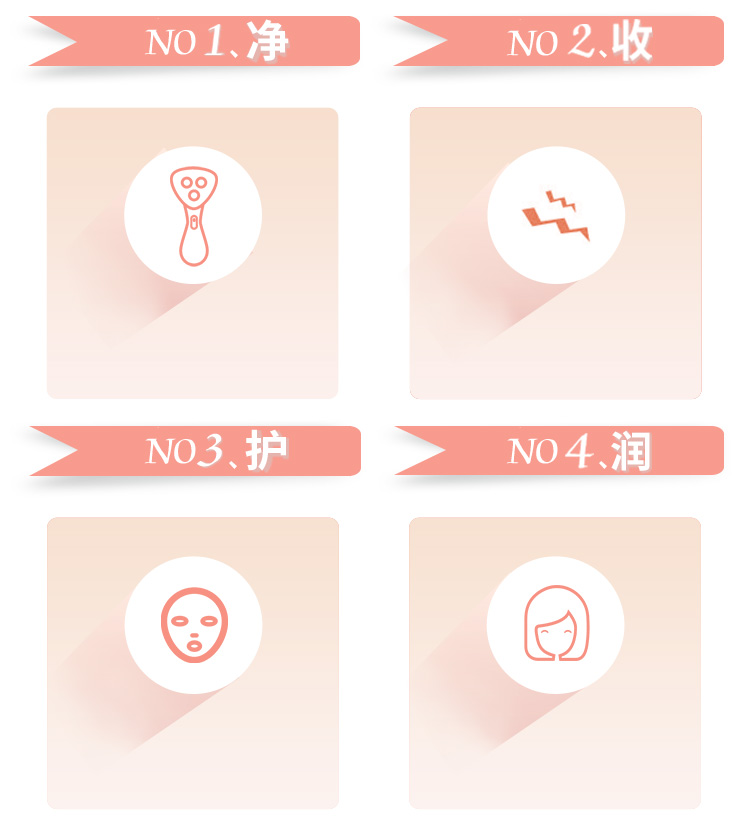
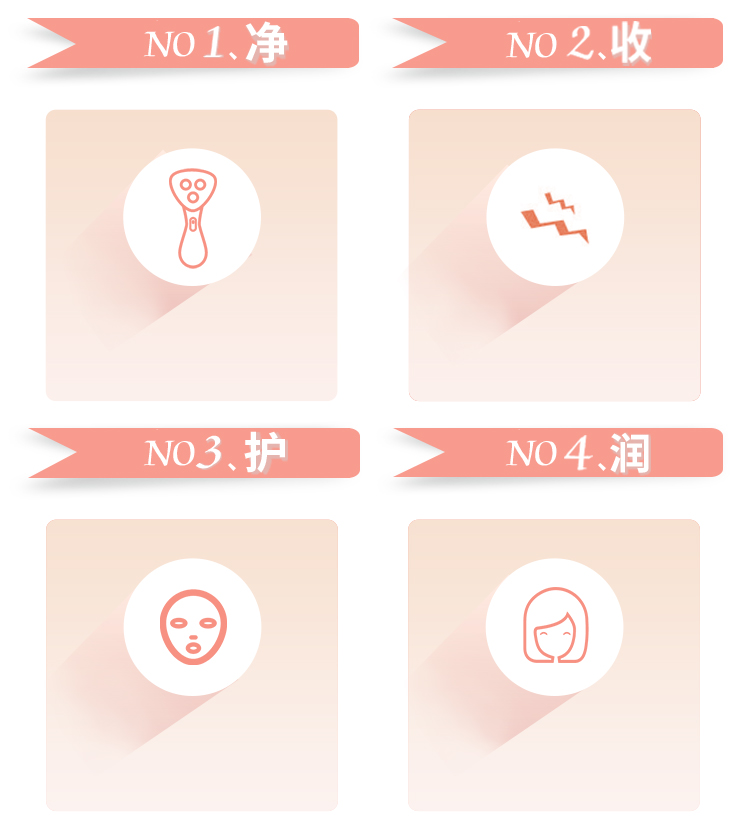
更换图片清晰图，样式微调

diff --git a/m.hoozonspa.com/statics/zt/mksx/css/theme_sj.css b/m.hoozonspa.com/statics/zt/mksx/css/theme_sj.css
@@ -1,19 +1,4 @@
-/** 
-* demo V1.0.0 
-* By 小珍
-* http://www.baidu.com/
- */
-@charset "utf-8";
 
-/** 
-* demo V1.0.0 
-* By 小珍
-* http://www.baidu.com/
- */
-
-/* @imgp: '/statics/zt/mksx/images/'; */
-
-/* @imgp: '/statics/zt/mksx/images/'; */
 
 /* ***reset*** */
 a, body { color: #000; }
@@ -33,7 +18,7 @@ body { background: #fff; font-family: "微软雅黑", sans-serif, Verdana, Arial
 .f-cb:after { display: block; visibility: hidden; height: 0; overflow: hidden; clear: both; content: "."; }
 .f-cb { zoom: 1; }
 .sr-only { position: absolute; width: 1px; height: 1px; padding: 0; margin: -1px; overflow: hidden; clip: rect(0, 0, 0, 0); border: 0; }
-@font-face { font-family: 'specialfont'; src: url('汉仪晓波折纸体简.ttf') format('truetype'); }
+@font-face { font-family: 'specialfont'; src: url('/statics/font/汉仪晓波折纸体简.ttf') format('truetype'); }
 .consult:hover { transform: scale(0.9, 0.9); }
 .j-consult { cursor: pointer; }
 .g-container { min-width: 15.99829352rem; }
@@ -51,7 +36,7 @@ body { background: #fff; font-family: "微软雅黑", sans-serif, Verdana, Arial
 .m1 .g-doc .g-title h2 .o { position: relative; padding: 0 0.51194539rem; }
 .m1 .g-doc .g-content { height: 16.2116041rem; }
 .m1 .g-doc .g-content h3 { font-size: 0.76791809rem; font-weight: normal; font-stretch: normal; line-height: 1.17320819rem; letter-spacing: 0rem; color: #f79181; margin-left: 0.38395904rem; }
-.m1 .g-doc .g-content p { margin: 0.21331058rem auto 0; width: 15.14505119rem; font-size: 0.59726962rem; font-weight: normal; letter-spacing: 0rem; color: #805443; text-align: justify; letter-spacing: -0.04266212rem; }
+.m1 .g-doc .g-content p { margin: 0.21331058rem auto 0; width: 15.14505119rem; font-size: 0.59726962rem; font-weight: normal; letter-spacing: 0rem; color: #805443; text-align: justify; letter-spacing: 0; }
 .m1 .g-doc .g-content img { margin: 0.63993174rem 0 2.1331058rem; display: block; width: 100%; }
 .m1 .m1_2 { background: url('/statics/zt/mksx/images/bg1.jpg') center top no-repeat; height: 19.45392491rem; background-size: auto 100%; }
 .m1 .m1_2 .g-doc { position: relative; }
@@ -62,7 +47,7 @@ body { background: #fff; font-family: "微软雅黑", sans-serif, Verdana, Arial
 .m2 .g-doc .g-title { background: url('/statics/zt/mksx/images/bgt2.jpg') left center no-repeat; height: 1.27986348rem; background-size: auto 100%; }
 .m2 .g-doc .g-content { margin-top: 0.85324232rem; background: url('/statics/zt/mksx/images/bg2.jpg') center top no-repeat; height: 17.53412969rem; background-size: auto 100%; }
 .m2 .g-doc .g-content .item { padding-top: 6.39931741rem; width: 6.18600683rem; height: 1.91979522rem;  /*display: inline-block; */ float: left; margin-bottom: 0.42662116rem; }
-.m2 .g-doc .g-content .item p { font-size: 0.55460751rem; font-weight: normal; font-stretch: normal; line-height: 0.8105802rem; letter-spacing: 0rem; color: #805443; text-align: center; }
+.m2 .g-doc .g-content .item p { text-shadow: 0.08532423rem 0.08532423rem 0.10665529rem rgba(75, 19, 3, 0.17); font-size: 0.55460751rem; font-weight: normal; font-stretch: normal; line-height: 0.8105802rem; letter-spacing: -0.02133106rem; color: #805443; text-align: center; }
 .m2 .g-doc .g-content .item1 { margin-left: 1.0665529rem; }
 .m2 .g-doc .g-content .item2 { margin-left: 1.49317406rem; }
 .m2 .g-doc .g-content .item3 { margin-left: 1.0665529rem; }

diff --git a/www.hoozonspa.com/static/zt/css/mksx/theme.css b/www.hoozonspa.com/static/zt/css/mksx/theme.css
@@ -1,6 +1,3 @@
-
-@charset "utf-8";
-
 /*@imgp: '/static/zt/img/mksx/';*/
 
 /* ***reset*** */
@@ -41,7 +38,7 @@ body { background: #fff; font-family: "微软雅黑", sans-serif, Verdana, Arial
 .m1 .g-doc .g-title h2 .o { position: relative; padding: 0 34px; }
 .m1 .g-doc .g-content { margin-left: 30px; padding-bottom: 40px; }
 .m1 .g-doc .g-content h3 { font-size: 36px; font-weight: normal; font-stretch: normal; line-height: 55px; letter-spacing: 0px; color: #f79181; }
-.m1 .g-doc .g-content p { margin-top: 10px; width: 1366px; font-size: 30px; font-weight: normal; letter-spacing: 0px; color: #805443; text-align: justify; letter-spacing: -2px; }
+.m1 .g-doc .g-content p { margin-top: 10px; width: 1366px; font-size: 30px; font-weight: normal; letter-spacing: 0px; color: #805443; text-align: justify; letter-spacing: -1px; }
 .m1 .g-doc .g-content img { display: block; margin-top: 10px; margin-left: 60px; }
 .m1 .m1_2 { background: url('/static/zt/img/mksx/bg1.jpg') center top no-repeat; height: 720px; }
 .m1 .m1_2 .g-doc { position: relative; }
@@ -65,7 +62,7 @@ body { background: #fff; font-family: "微软雅黑", sans-serif, Verdana, Arial
 .m3 .g-doc .g-content .item { margin-left: 34px; margin-top: 140px; padding-top: 174px; width: 320px; height: 250px; float: left; }
 .m3 .g-doc .g-content .item h3 { font-size: 26px; font-weight: normal; letter-spacing: 0px; color: #673b1c; text-align: center; }
 .m3 .g-doc .g-content .item p { width: 290px; margin: 0 auto; font-size: 24px; font-weight: normal; font-stretch: normal; line-height: 36px; letter-spacing: 0px; color: #673b1c; text-align: justify; }
-.m3 .g-doc .g-content .item1 { margin-left: 10px; }
+.m3 .g-doc .g-content .item1 { margin-left: 15px; }
 .m3 .g-doc .consult { margin: 40px auto 0; display: block; background: url('/static/zt/img/mksx/bg_consult3.png') center top no-repeat; height: 74px; width: 248px; }
 .m4 { background: url('/static/zt/img/mksx/bg4.jpg') center top no-repeat; height: 1012px; }
 .m4 .g-doc { padding-top: 60px; }
